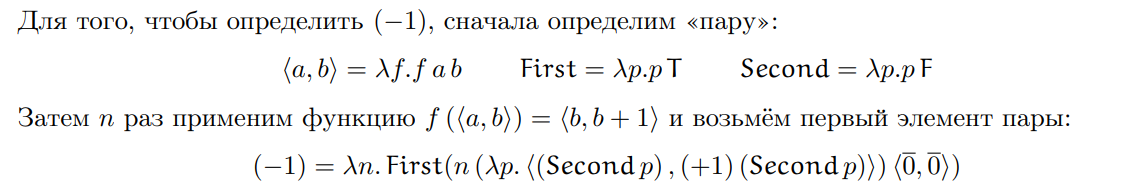
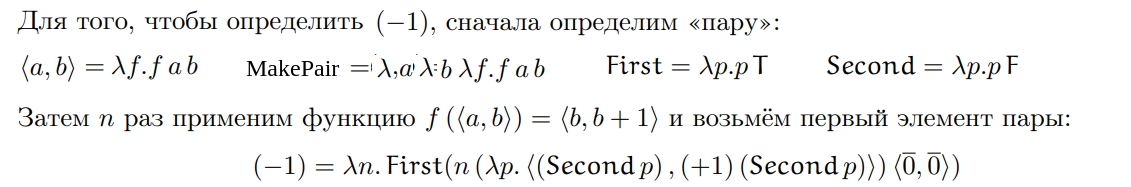
[T2] done

Changed region(s): [[0.2166, 0.2941, 0.8974, 0.4545], [0.3095, 0.0535, 0.7118, 0.1872], [0.0, 0.2941, 0.1857, 0.4278]]

diff --git a/index.html b/index.html
@@ -71,9 +71,9 @@ h2 {
       name:"Бестиповое лямбда-исчисление. Общие определения (альфа-эквивалентность, бета-редукция, бета-эквивалентность). Параллельная бета-редукция. Теорема Чёрча-Россера.",
       defs:["Лямда-выражение, грамматика, абстракция, аппликация", "Свободное и связанное вхождения", "Функции V и FV", "Альфа-эквивалентность", "Бета-редекс, бета-редукция", "Нормальная форма, комбинаторы", "Бета-редуцируемость, бета-эквивалентность, параллельная бета-редукция", "Ромбовидное свойство", "Теорема Чёрча-Россера, леммы, тезис Чёрча", "Бета-эквивалентность (из ТДЗ)"]
     },
-    { // 2 (TODO: maybe done?)
+    { // 2 (DONE)
       name:"Булевские значения, чёрчевские нумералы, упорядоченные пары.",
-      defs:["Булевские значения и функции", "Черчевские нумералы, +1", "Арифметические функции", "Пары, -1"]
+      defs:["Булевские значения и функции", "Черчевские нумералы, +1", "Арифметические функции", "Упорядоченные пары, -1"]
     },
     { // 3 (DONE)
       name:"Алгебраические типы: аналог в теории множеств, реализация в лямбда-исчислении. Нормальный и аппликативный порядок редукций, мемоизация.",
